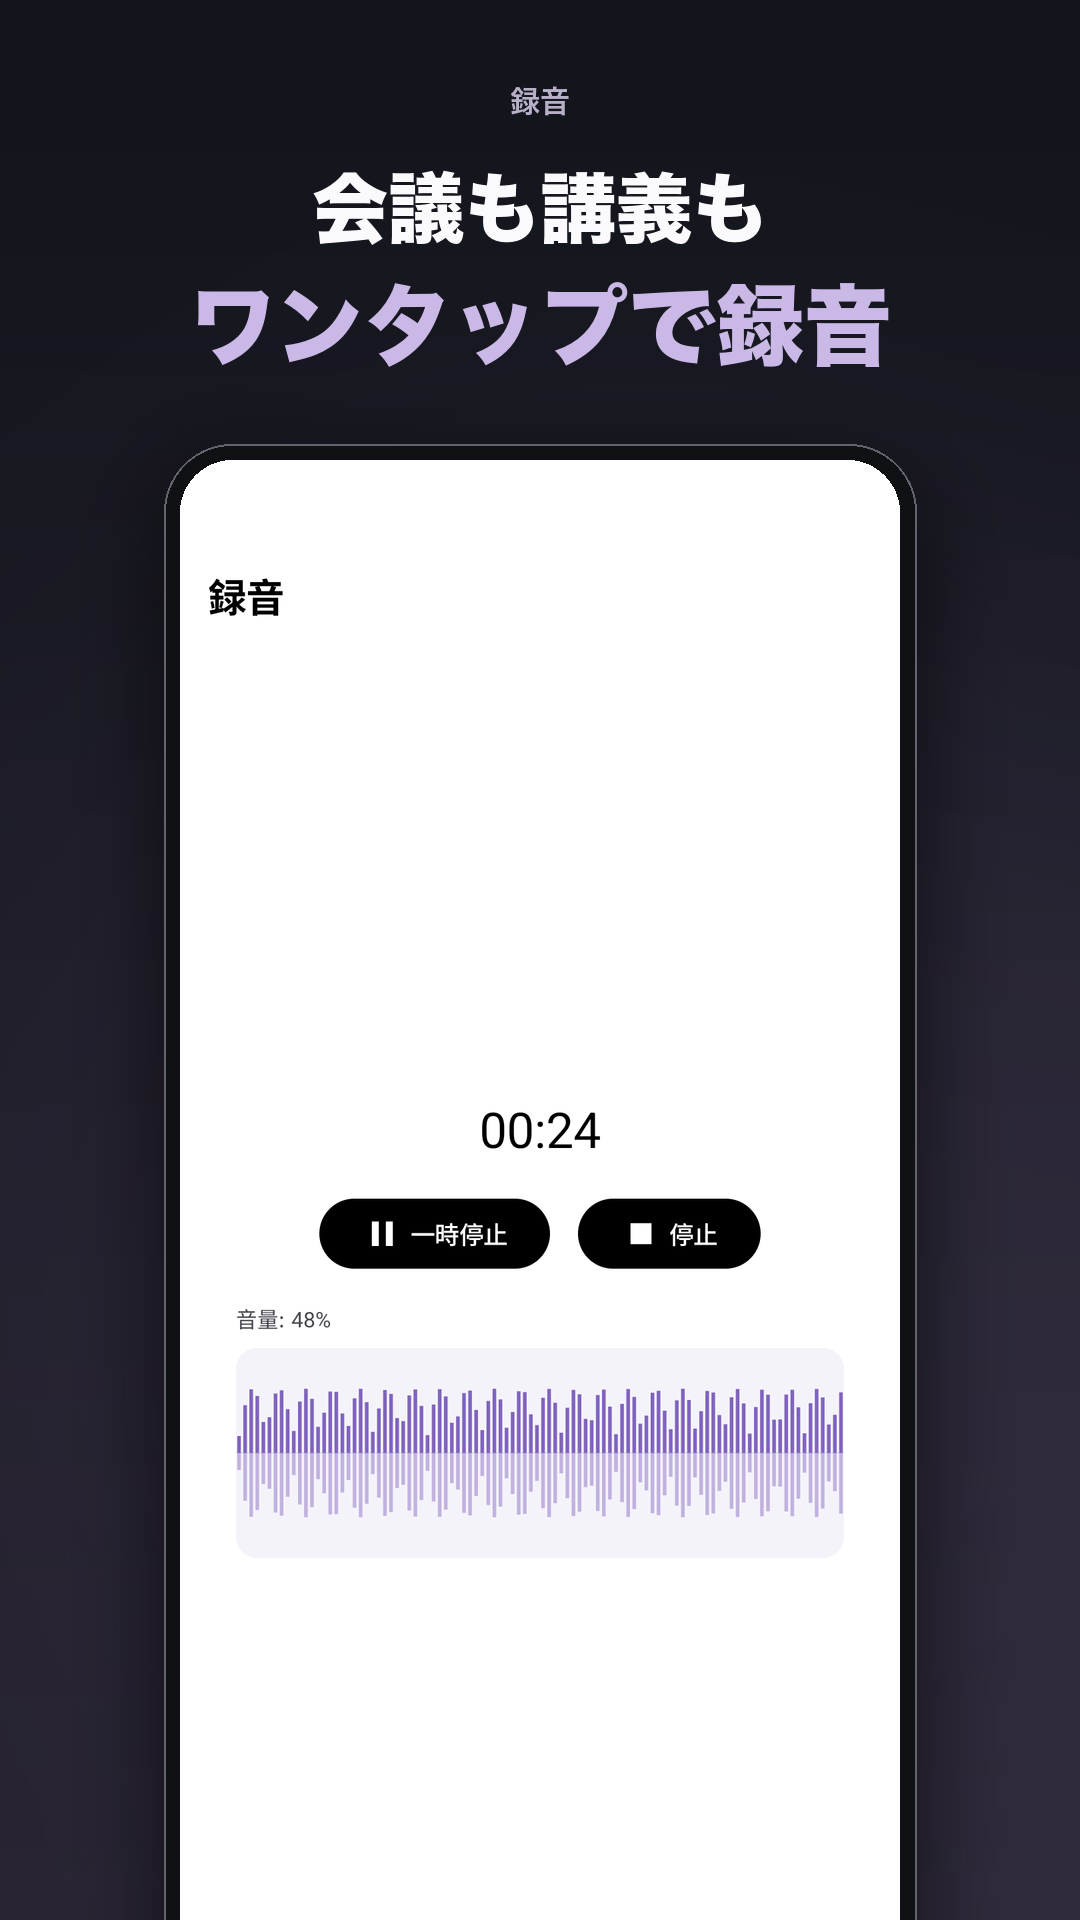
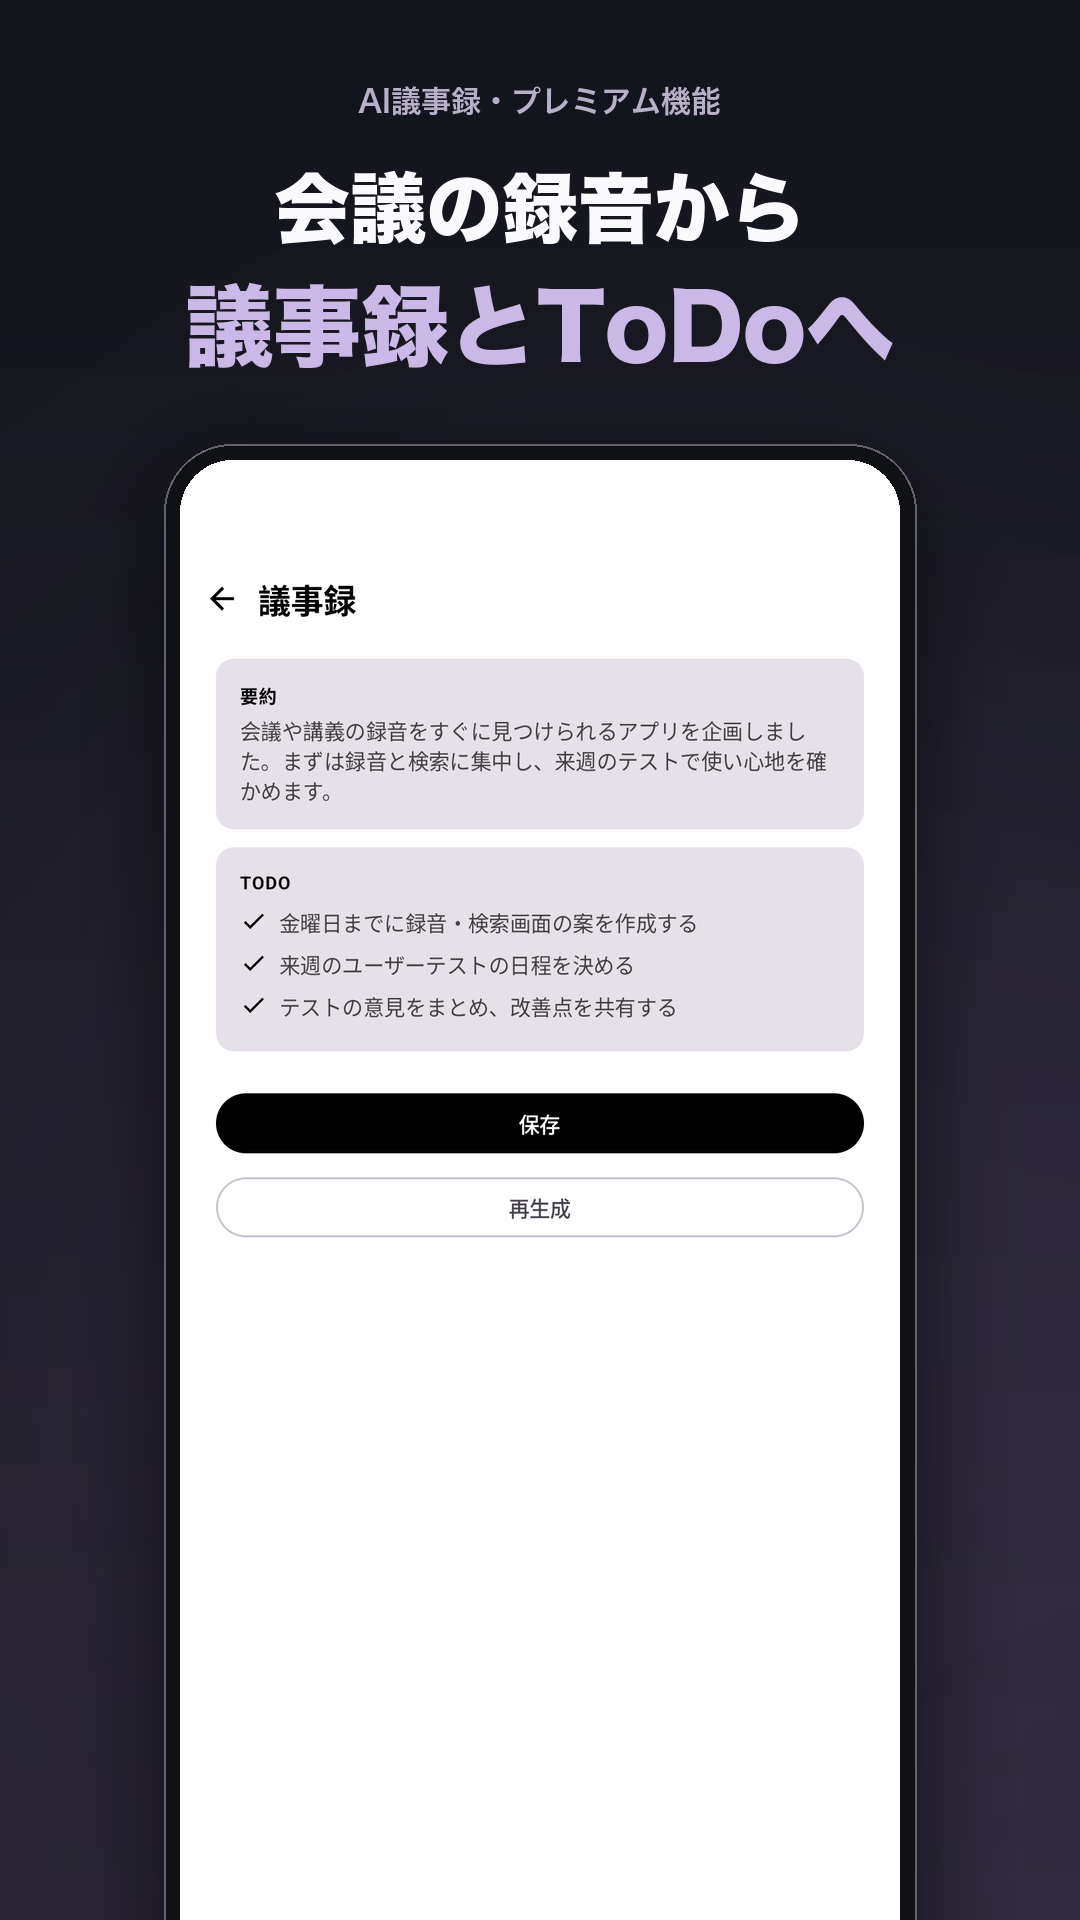
chore(android): refresh Japanese Play phone screenshot
(cherry picked from commit a67ed54fe7b902430f0da9de12f3dff8bd465f91)

diff --git a/android/simpleRecord/fastlane/play_screenshots/compose.py b/android/simpleRecord/fastlane/play_screenshots/compose.py
@@ -156,6 +156,9 @@ def main():
         raw_dir = HERE / "raw" / conf["raw"]
         out_dir = METADATA / locale / "images" / "phoneScreenshots"
         for i, ((out_name, raw_name, top, bottom), (label, line1, line2)) in enumerate(zip(SCREENS, conf["copy"])):
+            if locale == "ja-JP" and i == 0:
+                raw_name = "02_minutes.png"
+                label, line1, line2 = "AI議事録・プレミアム機能", "会議の録音から", "議事録とToDoへ"
             print(compose(raw_dir, out_dir, out_name, raw_name, label, line1, line2))
 
 
